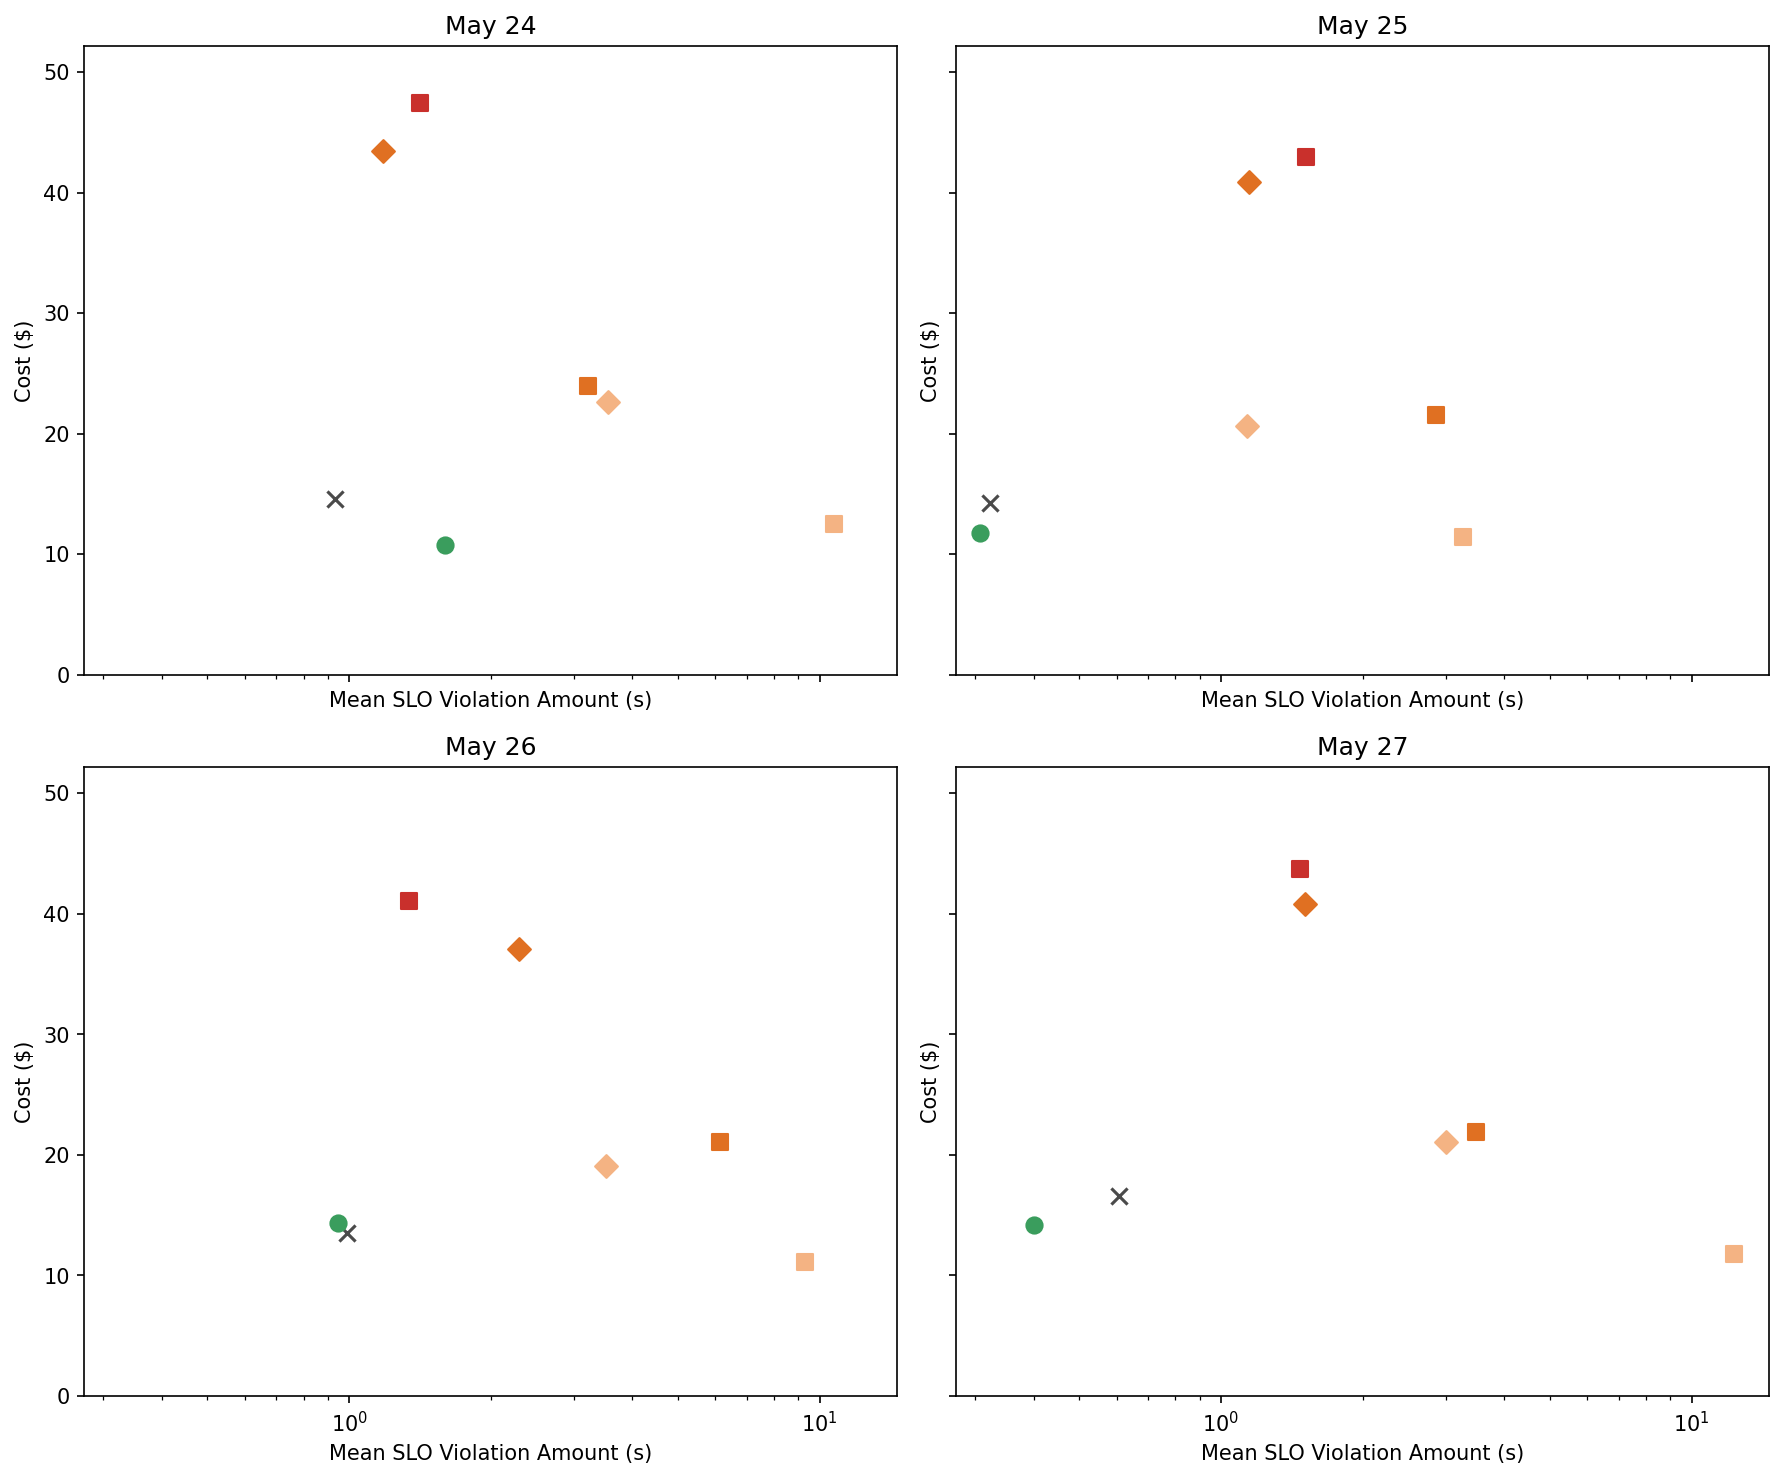
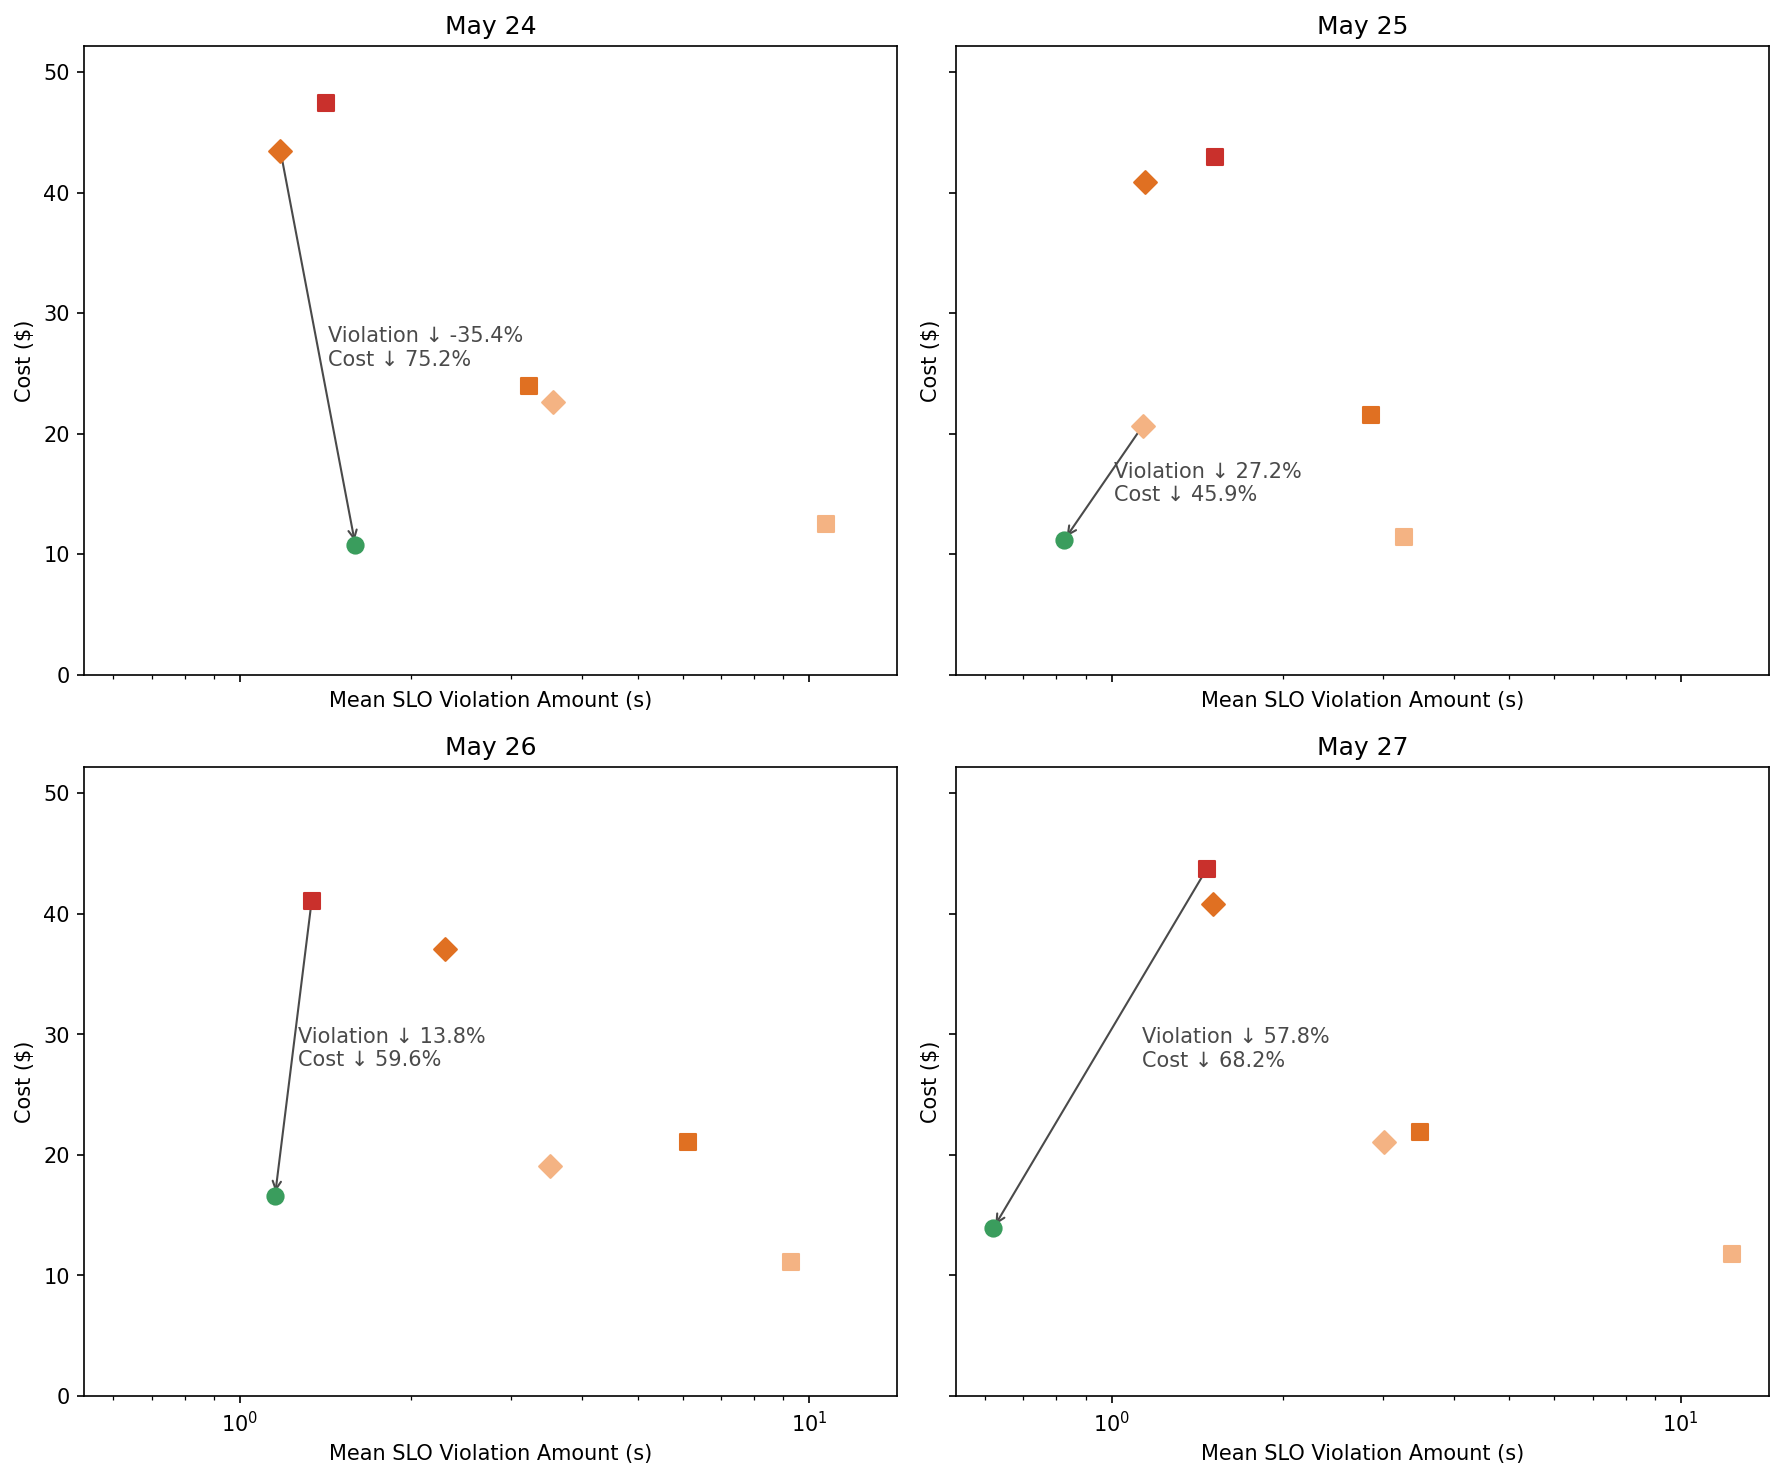
Plotting improvements

diff --git a/src/autoslo/experiments/aggregate_trials.py b/src/autoslo/experiments/aggregate_trials.py
@@ -96,7 +96,9 @@ def consolidate_summaries(
     return pd.DataFrame(rows)
 
 
-def plot_experiment(experiment_definition_dir: Path | str) -> None:
+def plot_experiment(
+    experiment_definition_dir: Path | str, no_initial: bool = False
+) -> None:
     if isinstance(experiment_definition_dir, str):
         experiment_definition_dir = Path(experiment_definition_dir)
     summary = consolidate_summaries(experiment_definition_dir)
@@ -147,6 +149,8 @@ def plot_experiment(experiment_definition_dir: Path | str) -> None:
             ):
                 points: list[ScatterPoint] = []
                 for _, row in trial_rows.iterrows():
+                    if no_initial and row["label"] == "initial":
+                        continue
                     formatting_id = row["label"]
                     if formatting_id == "final":
                         formatting_id = formatting_ids_of_final_points[trial_id]
@@ -167,6 +171,7 @@ def plot_experiment(experiment_definition_dir: Path | str) -> None:
                         ax=axs[panel_idx],  # type: ignore
                         existing_xlims=prev_panel_xlims,
                         existing_ylims=prev_panel_ylims,
+                        report_improvement=True,
                     )
                 )
         else:
@@ -203,6 +208,8 @@ def plot_experiment(experiment_definition_dir: Path | str) -> None:
                     )
                 )
             for _, row in nonfinals.drop_duplicates().iterrows():
+                if no_initial and row["label"] == "initial":
+                    continue
                 points.append(
                     ScatterPoint(
                         formatting_id=row["label"],
@@ -216,6 +223,7 @@ def plot_experiment(experiment_definition_dir: Path | str) -> None:
                 title=experiment_name_human,
                 x_metric=slo_metric,
                 x_threshold_objective=slo_objectives[summary["trial"].iloc[0]],
+                report_improvement=True,
             )
 
         plot_path = (

diff --git a/src/autoslo/utils/plotting.py b/src/autoslo/utils/plotting.py
@@ -65,6 +65,7 @@ def cost_vs_compliance_scatter(
     ax: Axes | None = None,
     x_threshold_color: str = Palette.light_green,
     x_threshold_objective: SloObjective | None = None,
+    report_improvement: bool = False,
 ) -> tuple[Figure, Axes, tuple[float, float], tuple[float, float]]:
     """Create a cost-vs-compliance scatter plot.
 
@@ -149,6 +150,38 @@ def cost_vs_compliance_scatter(
             transform=ax.get_xaxis_transform(),
         )
 
+    # Report improvement, if requested and possible.
+    if report_improvement:
+        # Find the point formatted with "prev_month", the end of the arrow.
+        ending_point = [
+            pt for pt in points if pt.formatting_id.startswith("prev")
+        ]
+        ending_point.sort(key=lambda pt: (pt.x, pt.y))
+        # Find the point formatted with "32+32 RPU", the start of the arrow.
+        starting_point = [pt for pt in points if "RPU" in pt.formatting_id]
+        starting_point.sort(key=lambda pt: (pt.x, pt.y))
+
+        start = starting_point[0]
+        end = ending_point[0]
+        ax.annotate(
+            "",
+            xy=(end.x, end.y),
+            xytext=(start.x, start.y),
+            arrowprops=dict(arrowstyle="->", color=Palette.gray, lw=1),
+            zorder=-10,
+        )
+        violation_ratio = end.x / start.x if start.x > 0 else float("inf")
+        cost_ratio = end.y / start.y if start.y > 0 else float("inf")
+        ax.text(
+            min(start.x, end.x) + abs(end.x - start.x) * 0.6,
+            (start.y + end.y) * 0.5,
+            f"Violation ↓ {1 -violation_ratio:.1%}\nCost ↓ {1 -cost_ratio:.1%}",
+            color=Palette.gray,
+            ha="left",
+            va="center",
+        )
+
+    # Plot points.
     for pt in points:
         label, color, marker = FORMATTING.get(
             pt.formatting_id, (pt.formatting_id, Palette.gray, "o")
